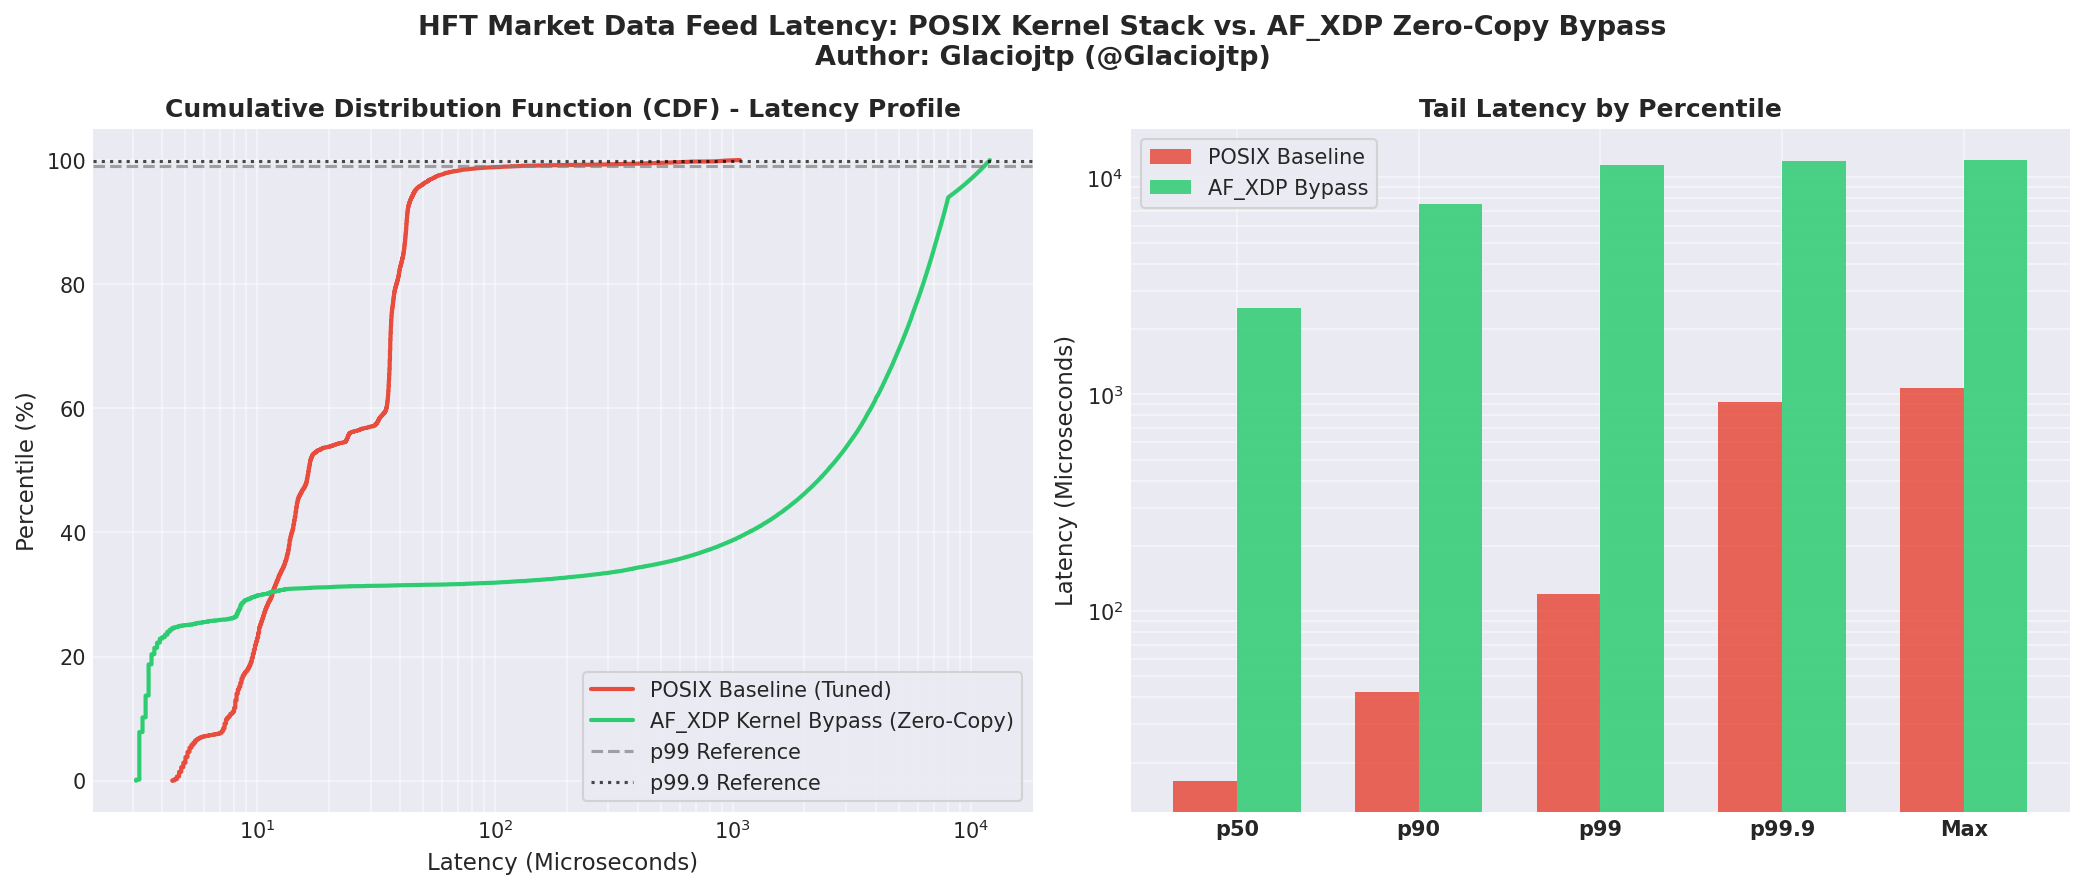
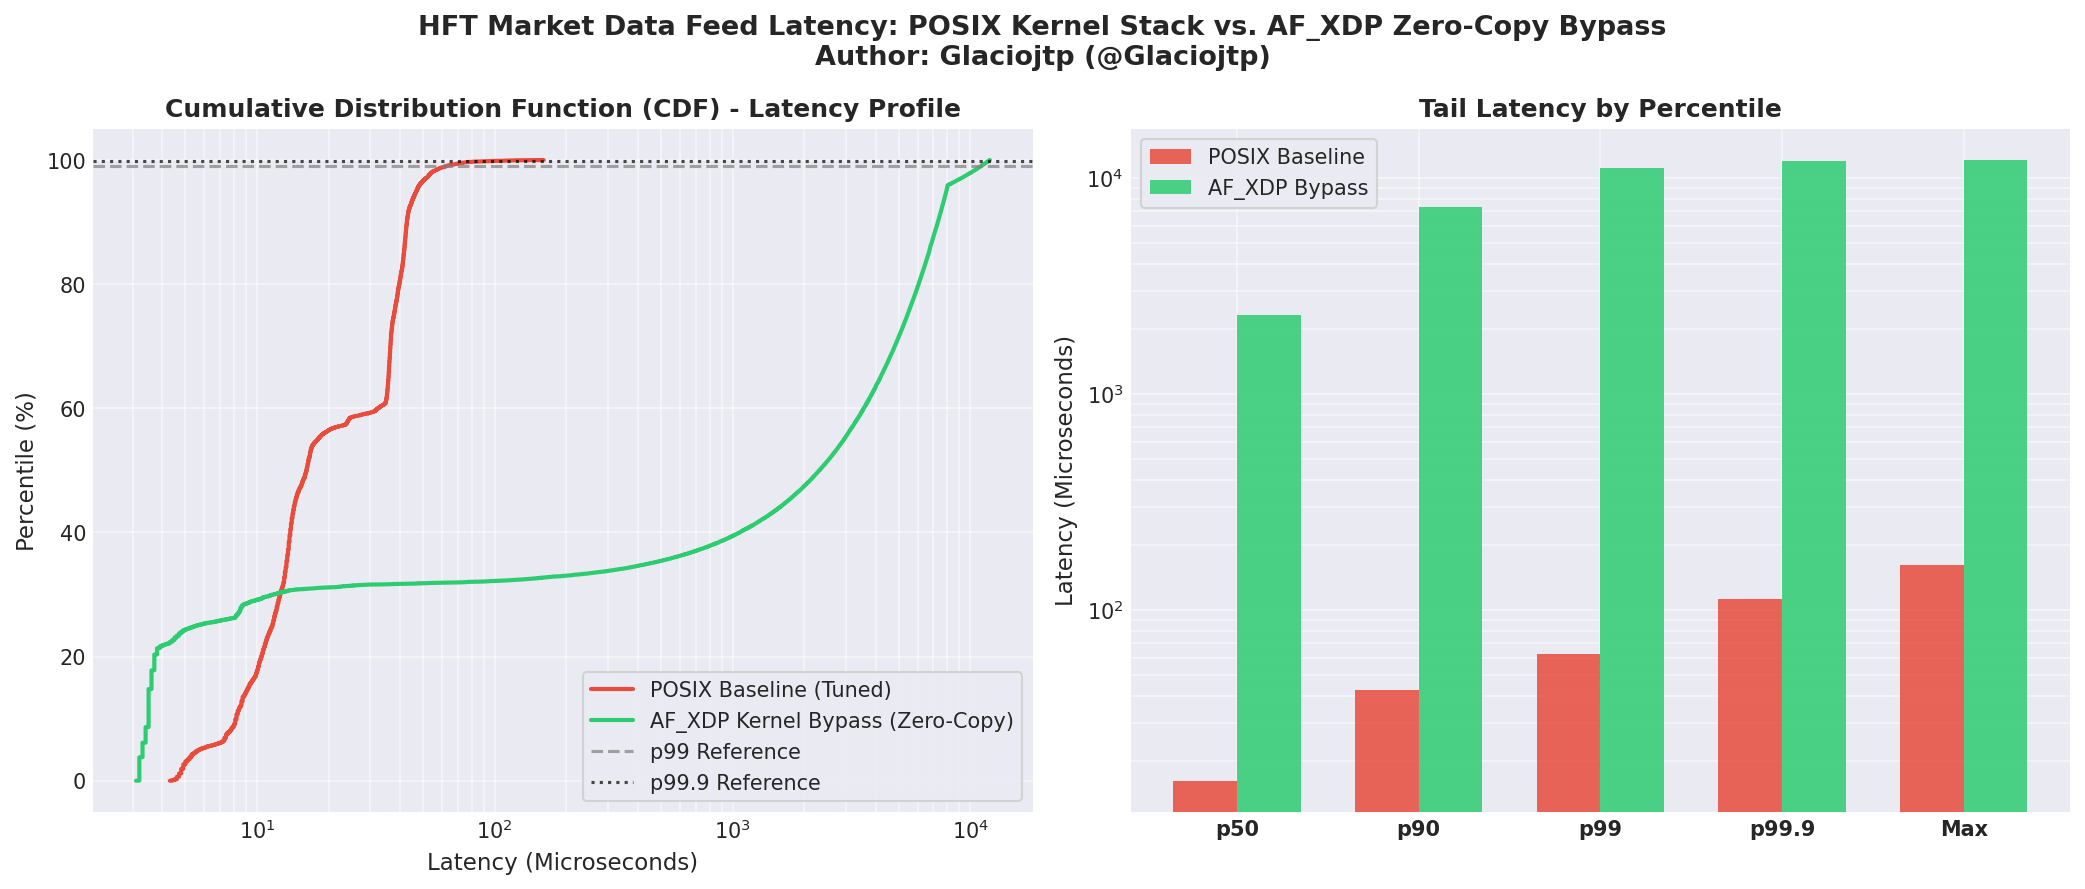
fix(bypass): disable XDP_USE_NEED_WAKEUP for virtual veth pairs and update benchmark plots

diff --git a/src/bypass_rx/bypass_rx.c b/src/bypass_rx/bypass_rx.c
@@ -141,7 +141,7 @@ int main(int argc, char *argv[]) {
         .tx_size = XSK_RING_PROD__DEFAULT_NUM_DESCS,
         .libbpf_flags = 0,
         .xdp_flags = XDP_FLAGS_SKB_MODE, // SKB mode para emulacion/veth/lo; DRV mode para NICs fisicas
-        .bind_flags = XDP_USE_NEED_WAKEUP
+        .bind_flags = 0
     };
 
     int ifindex = if_nametoindex(ifname);

diff --git a/benchmark/benchmark_summary.md b/benchmark/benchmark_summary.md
@@ -2,12 +2,12 @@
 
 | Metric | POSIX Baseline (Tuned) | AF_XDP Zero-Copy | Latency Reduction |
 | :--- | :--- | :--- | :--- |
-| **Min** | `4.40 µs` | **`3.10 µs`** | **29.5%** |
-| **p50 (Median)** | `16.50 µs` | `2498.10 µs` | **-15040.0%** |
-| **Avg** | `28.74 µs` | `3169.04 µs` | **-10926.1%** |
-| **p90** | `42.50 µs` | `7548.37 µs` | **-17660.9%** |
-| **p99 (Tail)** | `119.64 µs` | `11375.78 µs` | **-9408.2%** |
-| **p99.9** | `924.31 µs` | `11975.71 µs` | **-1195.6%** |
-| **Max** | `1070.60 µs` | `12036.10 µs` | **-1024.2%** |
+| **Min** | `4.30 µs` | **`3.10 µs`** | **27.9%** |
+| **p50 (Median)** | `16.15 µs` | `2316.75 µs` | **-14245.2%** |
+| **Avg** | `24.07 µs` | `3004.64 µs` | **-12385.4%** |
+| **p90** | `42.70 µs` | `7301.97 µs` | **-17000.6%** |
+| **p99 (Tail)** | `62.30 µs` | `11071.13 µs` | **-17670.4%** |
+| **p99.9** | `112.00 µs` | `11971.01 µs` | **-10588.2%** |
+| **Max** | `160.50 µs` | `12084.00 µs` | **-7429.0%** |
 
 *Generated automatically by HFT Benchmark Runner (@Glaciojtp)*
